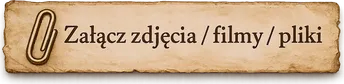
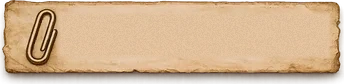
refactor: kontakt — unify submit/attach buttons into shared PL/UK/RU components
Wax-seal submit button and file-attach button now use one shared
text-less graphic per element (desktop+mobile) with the label overlaid
via HTML/CSS from locale data, instead of separate PL-only images with
baked-in text. Synced UK/RU contactForm text fields to the current PL
form (removed obsolete attachHint field, updated field labels).

Claude-Session: https://claude.ai/code/session_01ATHVRHDkMwinAoGdaVN3TX

Changed region(s): [[0.1744, 0.1905, 0.9593, 0.6667], [0.3198, 0.5714, 0.407, 0.6429], [0.9302, 0.5476, 0.9593, 0.619]]

diff --git a/src/components/sections/contact.tsx b/src/components/sections/contact.tsx
@@ -4,7 +4,7 @@ import { useState, useEffect, useRef, useMemo } from 'react'
 import { useForm, Controller } from 'react-hook-form'
 import { zodResolver } from '@hookform/resolvers/zod'
 import * as z from 'zod'
-import { Loader2, Paperclip, X } from 'lucide-react'
+import { Loader2, X } from 'lucide-react'
 import Link from 'next/link'
 import { CustomPhoneInput } from '@/components/ui/custom-phone-input'
 import { CustomCheckbox } from '@/components/ui/custom-checkbox'
@@ -72,6 +72,8 @@ export interface ContactT {
   termsHref: string
   agreementEnd: string
   submitButton: string
+  /** Krótkie słowo na pieczęci/przycisku wysyłki (np. "Wyślij") — osobne od submitButton (pełna fraza używana m.in. jako aria-label) */
+  submitButtonSeal: string
   submitting: string
   phoneError: string
   agreementError: string
@@ -107,6 +109,7 @@ const PL: ContactT = {
   termsHref: '/regulamin',
   agreementEnd: 'i akceptuję ich postanowienia.',
   submitButton: 'Wyślij zgłoszenie',
+  submitButtonSeal: 'Wyślij',
   submitting: 'Wysyłanie...',
   phoneError: 'Numer telefonu jest za krótki',
   agreementError: 'Musisz zaakceptować regulamin',
@@ -487,39 +490,30 @@ export function Contact({ t, bare = false, locale }: { t?: ContactT; bare?: bool
               )}
             </div>
 
-            {/* Załączniki */}
+            {/* Załączniki — plakietka pergaminowa wspólna dla PL/UK/RU (grafika bez wypalonego
+                tekstu, tylko spinacz), etykieta nakładana przez HTML/CSS z d.attachLabel. */}
             <div className="space-y-[7px]">
-              {resolvedLocale === 'pl' ? (
-                <div className="flex justify-start">
-                  <label
-                    htmlFor="attachments"
-                    className="group -ml-3 md:-ml-4 inline-block cursor-pointer transition-transform duration-250 hover:scale-[1.02]"
+              <div className="flex justify-start">
+                <label
+                  htmlFor="attachments"
+                  className="group relative -ml-3 md:-ml-4 inline-block cursor-pointer transition-transform duration-250 hover:scale-[1.02]"
+                >
+                  <picture>
+                    <source media="(max-width: 767px)" srcSet="/images/contact-form-attach-button-mobile.webp" />
+                    <img
+                      src="/images/contact-form-attach-button.webp"
+                      alt={d.attachLabel}
+                      draggable={false}
+                      className="h-[42px] md:h-[52px] w-auto select-none drop-shadow-[2px_4px_5px_rgba(35,18,8,0.3)] group-hover:drop-shadow-[3px_6px_7px_rgba(35,18,8,0.4)] transition-[filter] duration-250"
+                    />
+                  </picture>
+                  <span
+                    className="absolute left-[18%] right-[5%] top-[41%] -translate-y-1/2 select-none pointer-events-none whitespace-nowrap text-center font-lora font-semibold text-[13px] md:text-[17px] text-[#412612]"
                   >
-                    <picture>
-                      <source media="(max-width: 767px)" srcSet="/images/contact-form-attach-button-mobile.webp" />
-                      <img
-                        src="/images/contact-form-attach-button.webp"
-                        alt={d.attachLabel}
-                        draggable={false}
-                        className="h-[42px] md:h-[52px] w-auto select-none drop-shadow-[2px_4px_5px_rgba(35,18,8,0.3)] group-hover:drop-shadow-[3px_6px_7px_rgba(35,18,8,0.4)] transition-[filter] duration-250"
-                      />
-                    </picture>
-                  </label>
-                </div>
-              ) : (
-                <div className="flex items-center gap-2 flex-wrap">
-                  <label className="text-[#312b1f] font-lora font-semibold text-lg md:text-xl leading-[1.3]">
                     {d.attachLabel}
-                  </label>
-                  <label
-                    htmlFor="attachments"
-                    className="inline-flex items-center gap-1 text-[#3a2e24] text-sm font-semibold cursor-pointer border border-[#3a2e24]/40 rounded-full px-3 py-1 hover:bg-[#3a2e24]/10 transition-colors"
-                  >
-                    <Paperclip className="w-4 h-4" />
-                    {d.attachAdd}
-                  </label>
-                </div>
-              )}
+                  </span>
+                </label>
+              </div>
               {d.attachHint && (
                 <p className="text-black text-sm italic font-sans">
                   {d.attachHint}
@@ -661,49 +655,44 @@ export function Contact({ t, bare = false, locale }: { t?: ContactT; bare?: bool
               </div>
             </div>
 
-            {/* Przycisk Submit */}
+            {/* Przycisk Submit — pieczęć woskowa wspólna dla PL/UK/RU (grafika bez wypalonego
+                tekstu), słowo na pieczęci nakładane przez HTML/CSS z d.submitButtonSeal.
+                Sznurki celowo zwisają poza dolną krawędź kartki: pieczęć jest w normalnym
+                przepływie, ale ujemny margines dolny odcina "sznurkową" część z wysokości
+                przepływu, więc pergamin (który dopasowuje się do wysokości treści) kończy się
+                tuż pod pieczęcią, a sznurki wizualnie zwisają nad ciemnym tłem. */}
             <div className="!mt-[7px] flex justify-center">
-              {resolvedLocale === 'pl' ? (
-                // Pieczęć woskowa z wpisanym "Wyślij" — tylko PL (grafika ma wypalony polski tekst).
-                // Sznurki celowo zwisają poza dolną krawędź kartki: pieczęć jest w normalnym
-                // przepływie, ale ujemny margines dolny odcina "sznurkową" część z wysokości
-                // przepływu, więc pergamin (który dopasowuje się do wysokości treści) kończy się
-                // tuż pod pieczęcią, a sznurki wizualnie zwisają nad ciemnym tłem.
-                <div className="translate-x-1/4 flex">
-                  <button
-                    type="submit"
-                    disabled={isSubmitting}
-                    aria-label={d.submitButton}
-                    className="group relative flex-shrink-0 cursor-pointer ml-[18px] md:ml-[24px] mb-[-71px] md:mb-[-92px] rounded-full disabled:opacity-60 transition-transform duration-250 hover:scale-[1.03] focus:outline-none focus-visible:ring-2 focus-visible:ring-[#C69556]/70 focus-visible:ring-offset-2 focus-visible:ring-offset-transparent"
-                  >
-                    <picture>
-                      <source media="(max-width: 767px)" srcSet="/images/contact-form-seal-mobile.webp" />
-                      <img
-                        src="/images/contact-form-seal.webp"
-                        alt={d.submitButton}
-                        draggable={false}
-                        className="w-[108px] md:w-[140px] h-auto select-none drop-shadow-[5px_11px_9px_rgba(35,18,8,0.42)] group-hover:drop-shadow-[6px_13px_11px_rgba(35,18,8,0.5)] transition-[filter] duration-250"
-                      />
-                    </picture>
-                    {isSubmitting && (
-                      <span className="absolute inset-x-0 top-[30%] flex items-center justify-center">
-                        <Loader2 className="animate-spin h-6 w-6 text-[#F6E5C3] drop-shadow" />
-                      </span>
-                    )}
-                  </button>
-                </div>
-              ) : (
+              <div className="translate-x-1/4 flex">
                 <button
                   type="submit"
                   disabled={isSubmitting}
-                  className="relative group px-10 py-3 bg-[#C69556] hover:bg-[#B78345] border border-[#7A4E29] shadow-[0_1px_3px_rgba(0,0,0,0.15)] hover:shadow-[0_2px_6px_rgba(0,0,0,0.2)] rounded-full transition-all duration-250"
+                  aria-label={d.submitButton}
+                  className="group relative flex-shrink-0 cursor-pointer ml-[18px] md:ml-[24px] mb-[-71px] md:mb-[-92px] rounded-full disabled:opacity-60 transition-transform duration-250 hover:scale-[1.03] focus:outline-none focus-visible:ring-2 focus-visible:ring-[#C69556]/70 focus-visible:ring-offset-2 focus-visible:ring-offset-transparent"
                 >
-                  <span className="font-cormorant font-semibold text-2xl md:text-[26px] text-[#2F1E12] tracking-wide flex items-center gap-2">
-                    {isSubmitting && <Loader2 className="animate-spin h-5 w-5" />}
-                    {isSubmitting ? d.submitting : d.submitButton}
-                  </span>
+                  <picture>
+                    <source media="(max-width: 767px)" srcSet="/images/contact-form-seal-mobile.webp" />
+                    <img
+                      src="/images/contact-form-seal.webp"
+                      alt={d.submitButton}
+                      draggable={false}
+                      className="w-[108px] md:w-[140px] h-auto select-none drop-shadow-[5px_11px_9px_rgba(35,18,8,0.42)] group-hover:drop-shadow-[6px_13px_11px_rgba(35,18,8,0.5)] transition-[filter] duration-250"
+                    />
+                  </picture>
+                  {!isSubmitting && (
+                    <span
+                      className={`absolute left-1/2 top-[29%] -translate-x-1/2 -translate-y-1/2 select-none pointer-events-none whitespace-nowrap font-cormorant font-semibold text-[#b68d60] ${resolvedLocale === 'pl' ? 'text-[26px] md:text-[34px]' : 'text-[15px] md:text-[20px]'}`}
+                      style={{ textShadow: '0px 1px 1px rgba(40,15,5,0.7), 0px -1px 0px rgba(255,220,150,0.3)' }}
+                    >
+                      {d.submitButtonSeal}
+                    </span>
+                  )}
+                  {isSubmitting && (
+                    <span className="absolute inset-x-0 top-[30%] flex items-center justify-center">
+                      <Loader2 className="animate-spin h-6 w-6 text-[#F6E5C3] drop-shadow" />
+                    </span>
+                  )}
                 </button>
-              )}
+              </div>
             </div>
 
           </form>

diff --git a/src/lib/i18n/ru.ts b/src/lib/i18n/ru.ts
@@ -108,15 +108,14 @@ export const ru = {
     formTitle: 'Форма заявки',
     nameLabel: 'Имя и фамилия',
     namePlaceholder: 'Иван Иванов',
-    phoneLabel: 'Номер телефона',
+    phoneLabel: 'Номер телефона (обязательно)',
     emailLabel: 'Адрес e-mail',
     addressLabel: 'Адрес',
     addressPlaceholder: 'ул. Примерная 1, 50-001 Вроцлав',
-    problemLabel: 'Описание проблемы (неисправности)',
-    problemPlaceholder: '(напр. HP M404dn — принтер не захватывает бумагу)',
-    attachLabel: 'Прикрепить фото / видео (опционально)',
+    problemLabel: 'Описание обращения',
+    problemPlaceholder: 'Например, опишите проблему, неисправность или укажите, чего касается ваше обращение',
+    attachLabel: 'Прикрепить фото / видео / файлы',
     attachAdd: 'Добавить',
-    attachHint: 'Прикреплённые файлы помогут нам быстрее и точнее определить проблему и подготовить смету ремонта.',
     agreementConfirm: 'Подтверждаю, что ознакомился(-ась) с',
     privacyLink: 'Политикой конфиденциальности',
     privacyHref: '/ru/polityka-prywatnosci',
@@ -124,6 +123,7 @@ export const ru = {
     termsHref: '/ru/regulamin',
     agreementEnd: 'и принимаю их условия.',
     submitButton: 'Отправить заявку',
+    submitButtonSeal: 'Отправить',
     submitting: 'Отправка...',
     phoneError: 'Номер телефона слишком короткий',
     agreementError: 'Необходимо принять условия',

diff --git a/src/lib/i18n/uk.ts b/src/lib/i18n/uk.ts
@@ -188,15 +188,14 @@
     formTitle: 'Форма заявки',
     nameLabel: 'Ім\'я та прізвище',
     namePlaceholder: 'Іван Іваненко',
-    phoneLabel: 'Номер телефону',
+    phoneLabel: 'Номер телефону (обов\'язково)',
     emailLabel: 'Адреса e-mail',
     addressLabel: 'Адреса',
     addressPlaceholder: 'вул. Прикладна 1, 50-001 Вроцлав',
-    problemLabel: 'Опис проблеми (несправності)',
-    problemPlaceholder: '(напр. HP M404dn – принтер не захоплює папір)',
-    attachLabel: 'Додати фото / відео (опціонально)',
+    problemLabel: 'Опис звернення',
+    problemPlaceholder: 'Наприклад, опишіть проблему, несправність або вкажіть, чого стосується звернення',
+    attachLabel: 'Прикріпити фото / відео / файли',
     attachAdd: 'Додати',
-    attachHint: 'Прикріплені файли допоможуть нам швидше та точніше визначити проблему та підготувати кошторис ремонту.',
     agreementConfirm: 'Підтверджую, що ознайомився/лась з',
     privacyLink: 'Політикою Конфіденційності',
     privacyHref: '/uk/polityka-prywatnosci',
@@ -204,6 +203,7 @@
     termsHref: '/uk/regulamin',
     agreementEnd: 'і приймаю їх умови.',
     submitButton: 'Надіслати заявку',
+    submitButtonSeal: 'Надіслати',
     submitting: 'Надсилання...',
     phoneError: 'Номер телефону занадто короткий',
     agreementError: 'Необхідно прийняти умови',
